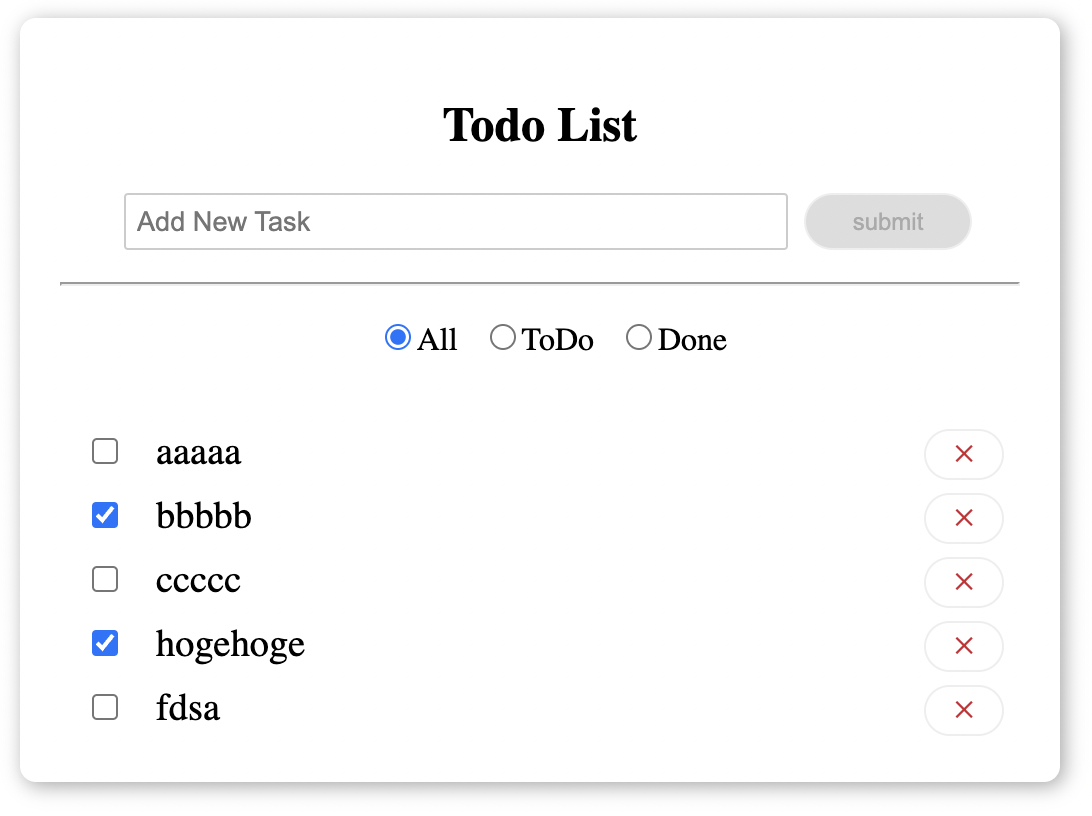
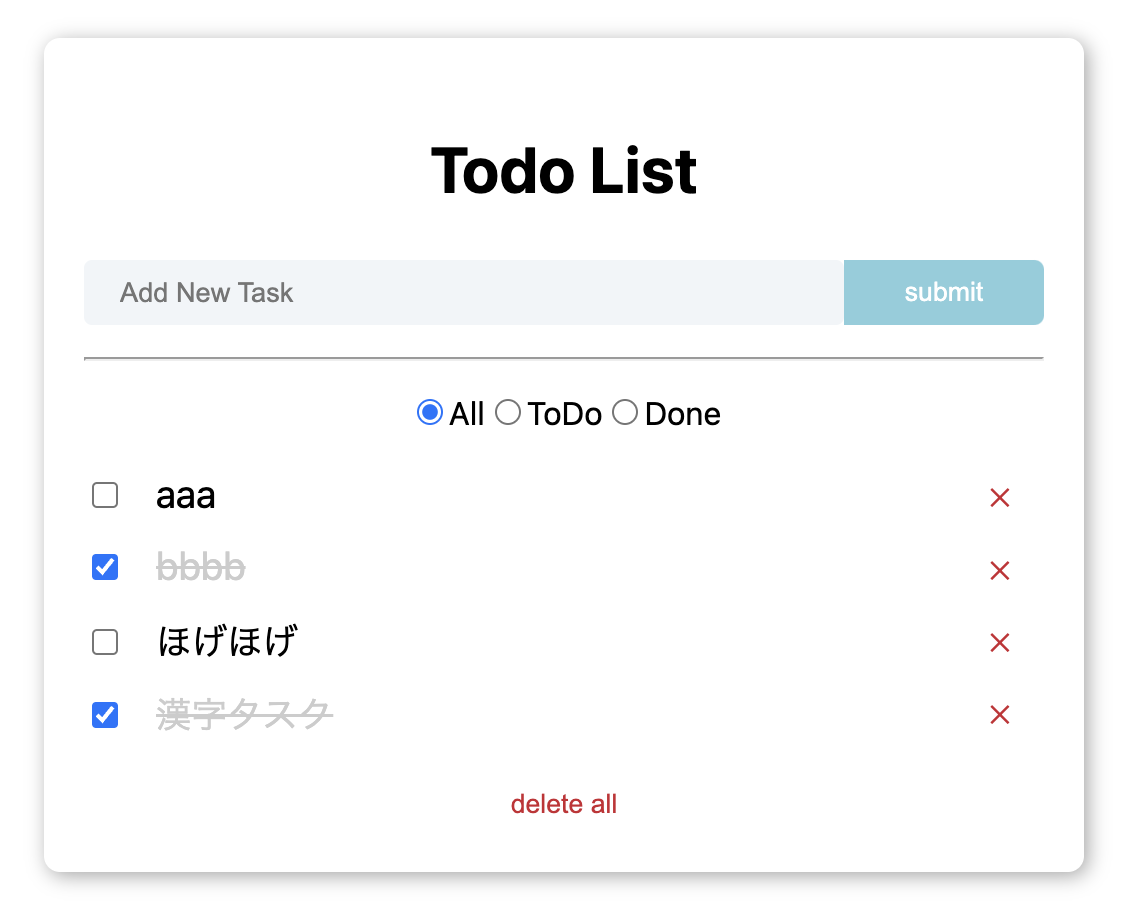
feat: updated 7.md

diff --git a/docs/7/App.jsx b/docs/7/App.jsx
@@ -31,6 +31,8 @@ const App = () => {
   const [inputTask, setInputTask] = useState("");
   const [filter, setFilter] = useState("ALL");
   const [id, setId] = useState(0);
+  const [isEdit, setIsEdit] = useState(false);
+  const [editTaskId, setEditTaskId] = useState("");
 
   useEffect(() => {
     if (taskList.length === 0) {
@@ -49,6 +51,9 @@ const App = () => {
     });
     setTaskList(newTaskList);
     localStorage.setItem(KEY, JSON.stringify(newTaskList));
+
+    setIsEdit(false);
+    setInputTask("");
   };
 
   const handleRemoveTask = (id) => {
@@ -62,17 +67,35 @@ const App = () => {
     localStorage.setItem(KEY, JSON.stringify([]));
   };
 
+  const handleEditTask = (id) => {
+    const task = taskList.filter((item) => item.id === id)[0];
+    setInputTask(task.title);
+    setIsEdit(true);
+    setEditTaskId(id);
+  };
+
   const handleSubmit = (e) => {
     e.preventDefault();
     if (inputTask === "") return;
-    const newTaskList = [
-      ...taskList,
-      { id: id + 1, title: inputTask, isDone: false },
-    ];
-    setTaskList(newTaskList);
-    setId(id + 1);
-    localStorage.setItem(KEY, JSON.stringify(newTaskList));
+    if (isEdit) {
+      taskList.forEach((task) => {
+        if (task.id === editTaskId) {
+          task.title = inputTask;
+        }
+      });
+      localStorage.setItem(KEY, JSON.stringify(taskList));
+    } else {
+      const newTaskList = [
+        ...taskList,
+        { id: id + 1, title: inputTask, isDone: false },
+      ];
+      setTaskList(newTaskList);
+      setId(id + 1);
+      localStorage.setItem(KEY, JSON.stringify(newTaskList));
+    }
     setInputTask("");
+    setIsEdit(false);
+    setEditTaskId("");
   };
 
   return (
@@ -92,6 +115,7 @@ const App = () => {
         handleRemoveTask={handleRemoveTask}
         handleAllRemoveTask={handleAllRemoveTask}
         handleTaskChange={handleTaskChange}
+        handleEditTask={handleEditTask}
       />
     </article>
   );

diff --git a/docs/7/components/TaskList.jsx b/docs/7/components/TaskList.jsx
@@ -3,6 +3,7 @@ const taskList = ({
   handleTaskChange,
   handleRemoveTask,
   handleAllRemoveTask,
+  handleEditTask,
   filter,
 }) => {
   const displayTasks = taskList.filter(({ isDone }) => {
@@ -22,7 +23,7 @@ const taskList = ({
               checked={isDone}
               onChange={() => handleTaskChange(id)}
             />
-            <label>{title}</label>
+            <label onClick={() => handleEditTask(id)}>{title}</label>
           </div>
           <button className="danger" onClick={() => handleRemoveTask(id)}>
             ✕

diff --git a/slides/7.md b/slides/7.md
@@ -320,7 +320,9 @@ function App(props) {
 
 <br />
 
-試しに書いてみましょう💁 __src/Title.jsx__ ファイル作成し，以下を記述してください．
+試しに書いてみましょう💁
+
+__src/Title.jsx__ ファイル作成し，以下を記述してください．
 
 ```jsx
 const Title = ({ str }) => {
@@ -359,7 +361,7 @@ const App = () => {
       <div>
       // 中略
 -     <h1>Hello React!</h1>
-+     <Title str={"Hello React!"} />
++     <Title str="Hello React!" />
       </div>
     </>
   )
@@ -379,7 +381,7 @@ return (
   <>
     <div>
       ...
-      <Title str={"Hello React!"} />
+      <Title str="Hello React!" />
     </div>
   </>
 )
@@ -424,8 +426,10 @@ const Hoge = () => {
   )
 
   // これもエラーとなる
-  <>...</>
-  <div>...</div>
+  return (
+    <>...</>
+    <div>...</div>
+  )
 }
 ```
 
@@ -583,15 +587,18 @@ export const ThemeSwitcher = () => {
 
 ---
 layout: center
+class: text-center
 ---
 
-# ToDo リストの作成
+# 実践！
+
+### ToDo リストを作ってみましょう🙋♀
 
 ---
 
 # 完成品
 
-<img src="/assets/7/todolist.png" alt="" class="mx-auto">
+<img src="/assets/7/todolist.png" alt="" class="mx-auto" width="480">
 
 ※ライブコーディングのため，資料は後ほど更新します 🙇
 
@@ -610,9 +617,12 @@ layout: center
 
 <br />
 
-### ▶ 【発展課題】データの永続・保存をしてみてください💁
+### ▶ 【発展課題】
 
+1. __データの永続・保存__ をしてみてください💁<br />
 （やり方は問いませんが， `lodalStorage` や `sessionStorage` が簡単です）
+2. __完了したタスクのみ一括削除機能__ を追加してください💁
+3. __各タスクの編集機能__ を追加してください💁
 
 <br />
 
@@ -625,8 +635,14 @@ image: https://source.unsplash.com/collection/94734566/1920x1080
 
 # 提出方法
 
+<br>
+
+以下のどちらかでお願いします．
+
 ### ▼アップロード
 インターネットに公開できる方は公開した URL を教えてください🙋♂
+
+<br>
 
 ### ▼HTML/CSS ファイルを共有
 ファイルを圧縮して [こちらの Google Drive](https://drive.google.com/drive/folders/1SHb-FE6GrMmlAQDCwI0ST_l9NU7XiHZl?usp=sharing) にアップロードしてください🙋♂
@@ -642,6 +658,9 @@ layout: intro
 <br />
 
 ### 📝  `React` で簡単な SPA 開発
+
+* ルーティング
+* カスタムフック
 
 <br />
 
